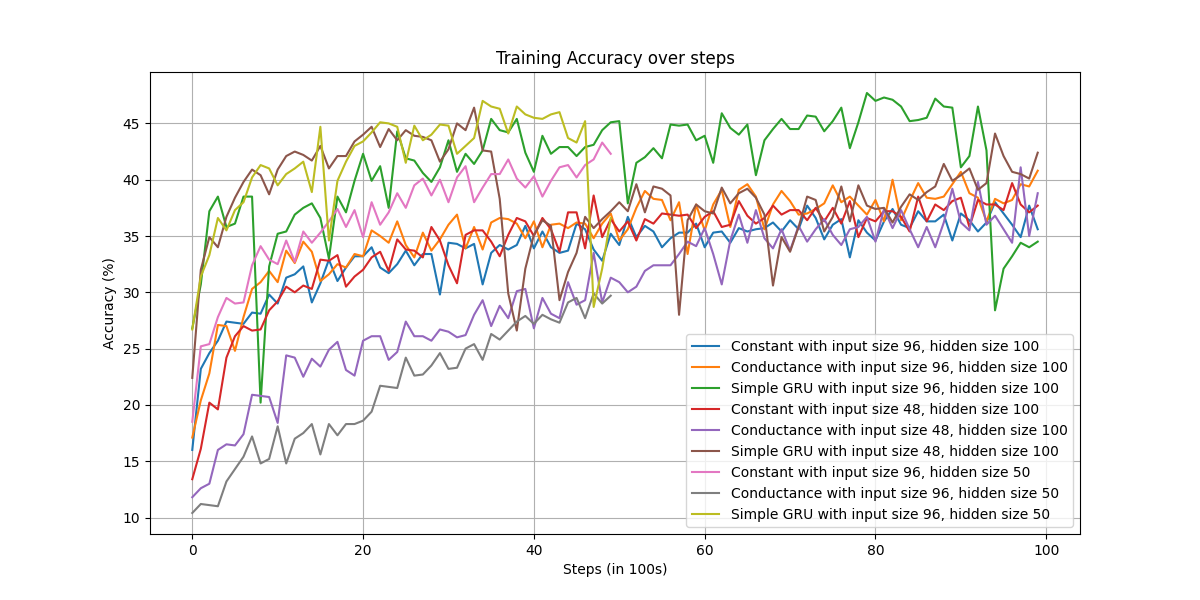
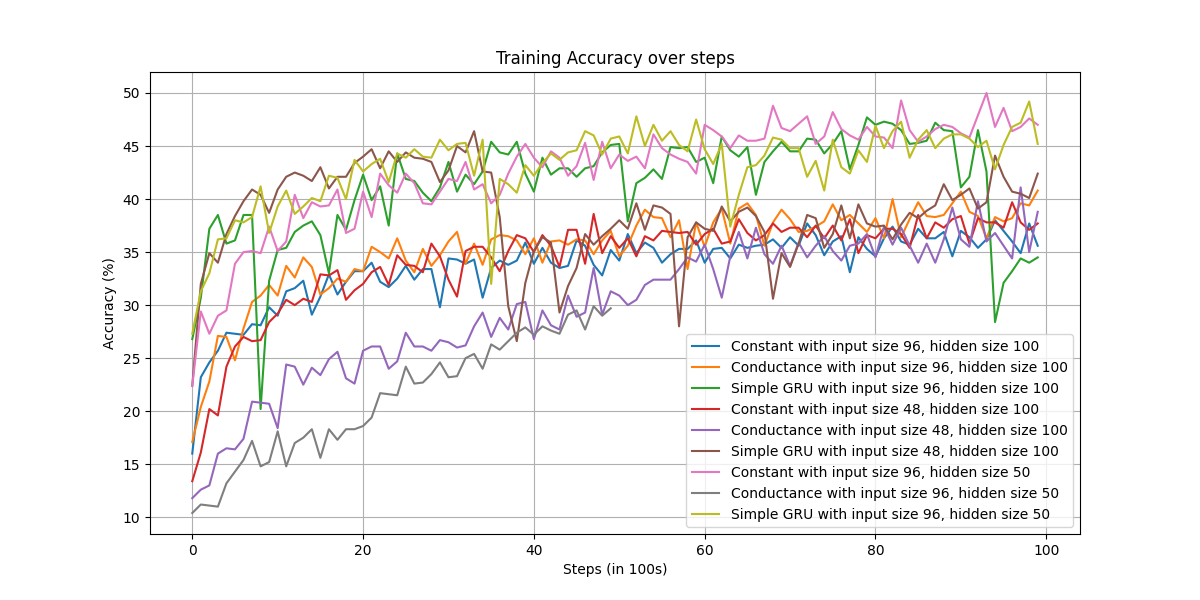
modify week 5 code

diff --git a/codebase/week_5_code/codes/plot.py b/codebase/week_5_code/codes/plot.py
@@ -11,22 +11,21 @@ con_hidsmall = np.load('week_5_code/01_constant_hidsmall.npy')
 cond_hidsmall = np.load('week_5_code/02_conductance_hidsmall.npy')
 gru_hidsmall = np.load('week_5_code/03_simple_GRU_hidsmall.npy')
 
-
-x_values = np.arange(len(con_hidsmall)* 2)
-x_values2 = np.arange(len(con_hidsmall))
+x_values = np.arange(len(constant))
+x_values2 = np.arange(len(constant)//2)
 
 plt.figure(figsize = (12, 6))
 #plt.plot(x_values, constant, label = 'Constant with input size 96, hidden size 100')
 #plt.plot(x_values, conductance, label = 'Conductance with input size 96, hidden size 100')
-plt.plot(x_values, simple_GRU, label = 'Simple GRU with input size 96, hidden size 100')
+#plt.plot(x_values, simple_GRU, label = 'Simple GRU with input size 96, hidden size 100')
 
 #plt.plot(x_values, con_small, label = 'Constant with input size 48, hidden size 100')
 #plt.plot(x_values, cond_small, label = 'Conductance with input size 48, hidden size 100')
-plt.plot(x_values, gru_small, label = 'Simple GRU with input size 48, hidden size 100')
+#plt.plot(x_values, gru_small, label = 'Simple GRU with input size 48, hidden size 100')
 
-#plt.plot(x_values2, con_hidsmall, label = 'Constant with input size 96, hidden size 50')
-#plt.plot(x_values2, cond_hidsmall, label = 'Conductance with input size 96, hidden size 50')
-plt.plot(x_values2, gru_hidsmall, label = 'Simple GRU with input size 96, hidden size 50')
+plt.plot(x_values, con_hidsmall, label = 'Constant with input size 96, hidden size 50')
+plt.plot(x_values2, cond_hidsmall, label = 'Conductance with input size 96, hidden size 50')
+plt.plot(x_values, gru_hidsmall, label = 'Simple GRU with input size 96, hidden size 50')
 
 plt.xlabel('Steps (in 100s)')
 plt.ylabel('Accuracy (%)')

diff --git a/codebase/week_5_code/codes/conductance.py b/codebase/week_5_code/codes/conductance.py
@@ -83,7 +83,7 @@ hidden_size = 50
 num_layers = 1
 num_classes = 10
 batch_size = 50
-num_epochs = 10
+num_epochs = 20
 learning_rate = 0.01
 
 'Model Definition'
